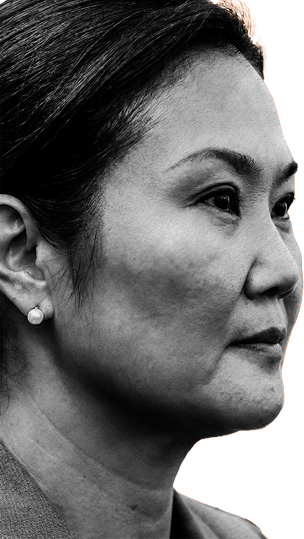
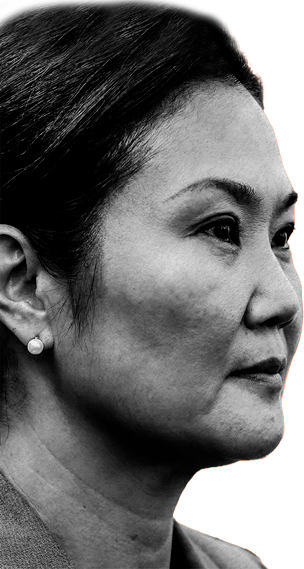
cabezas header

diff --git a/css/style.css b/css/style.css
@@ -598,17 +598,18 @@ body.versus{
 
     .main-header{
         height: 500px;
+        overflow: hidden;
     }
         .bg-keiko-portada {
-            bottom: 0;
-            height: 220px;
+            bottom: -15px;
+            height: 250px;
             left: 0;
             top: inherit;
-            width: 37%;            
+            width: 37%;           
         }
         .bg-sanchez-portada {
             bottom: 0;
-            height: 220px;
+            height: 232px;
             right: 0;
             top: inherit;
             width: 37%;            
